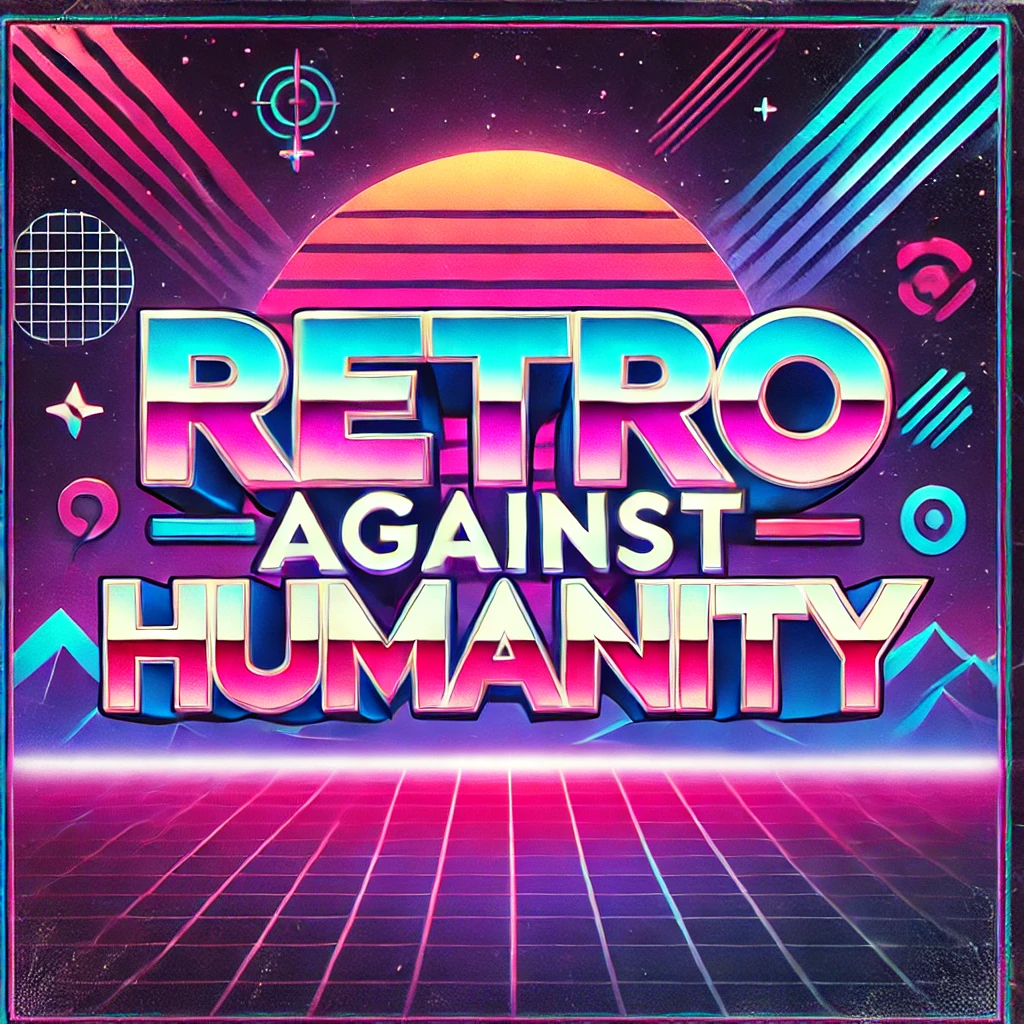
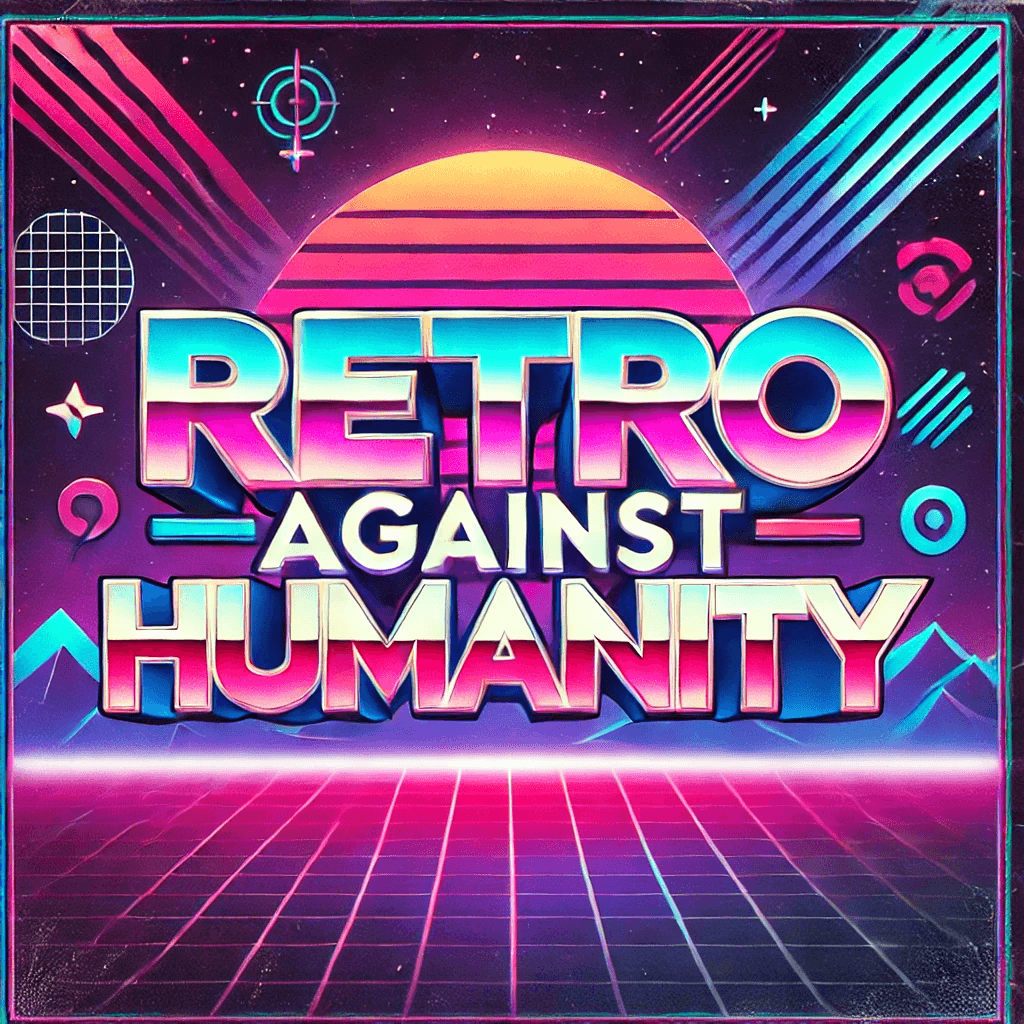
updated readme and optimised png

diff --git a/index.html b/index.html
@@ -94,7 +94,7 @@
     }
 
     .statement-box {
-      width: 100%;
+      width: 95%;
       min-height: 100px;
       background-color: white;
       border: 2px solid #ddd;
@@ -139,6 +139,11 @@
 
     }
 
+    #titleimg {
+        max-width: 200px;
+        margin-bottom: 3em;
+    }
+
   </style>
 </head>
 <body>
@@ -146,6 +151,8 @@
   <div class="container">
     <h1>Retro Against Humanity</h1>
     <h2>Statement Generator</h2>
+
+    <img id="titleimg" src="./retroagainsthumanity.png" /> 
 
     <div class="buttons">
       <button class="button-good" onclick="getCard('good')">😊 Good cards 😇</button>
@@ -157,7 +164,7 @@
 
     <button class="star-btn" onclick="getCard('star')">⭐ STARS ⭐</button>
     <div id="footer">
-        Project inpired on <a href="https://www.boxuk.com/insight/retros-against-humanity/">Box UK's work</a> and updated using GPT-4o. 
+        Really basic project inpired by <a href="https://www.boxuk.com/insight/retros-against-humanity/">Box UK's work</a>. 
         <br/><b>CC BY <a href="https://www.linkedin.com/in/cesarmiguel/">Cesar Miguel</a></b>
     </div>
   </div>

diff --git a/README.md b/README.md
@@ -7,9 +7,9 @@ This project is built using simple HTML, CSS, and JavaScript, allowing teams to 
 
 This activity is inspired by the work of [Box UK](https://www.boxuk.com/insight/retros-against-humanity/).
 
-## Demo
+## Usage
 
-[Link to your live demo](#)
+[Use it here!](https://cesarmiguel85.github.io/RetroAgainstHumanity/)
 
 ## Features
 
@@ -19,9 +19,4 @@ This activity is inspired by the work of [Box UK](https://www.boxuk.com/insight/
 - All functionality is handled client-side for fast performance.
 - No dependencies on external APIs or services.
 
-## Installation
-
-1. Clone the repository to your local machine:
-
-   ```bash
-   git clone https://github.com/yourusername/retro-against-humanity.git
+Come on, it cannot get any dumber than this! It is a single html page... 😅
